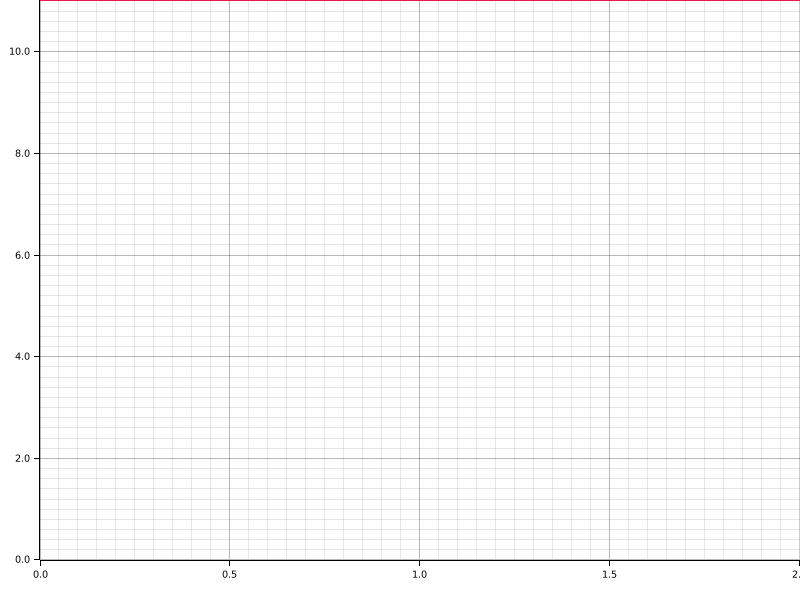
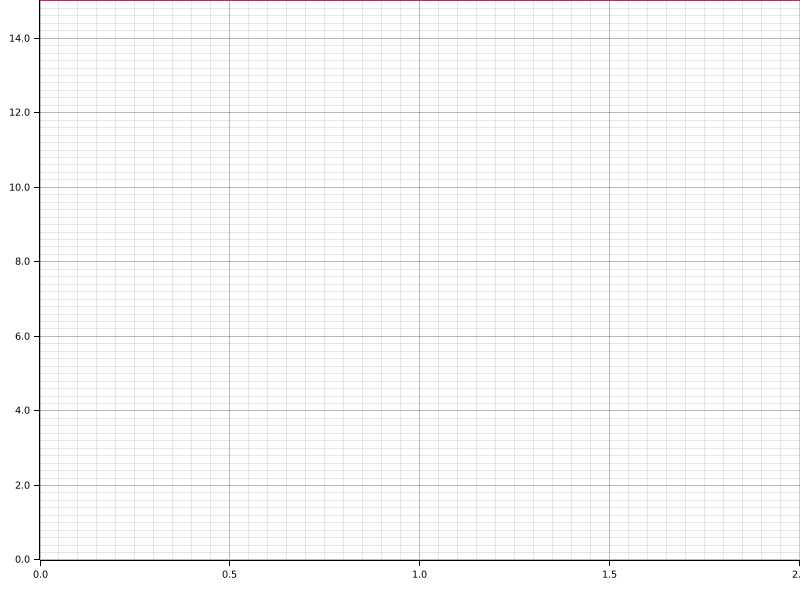
Reran directus codegen

Changed region(s): [[0.0, 0.0, 1.0, 0.93]]

diff --git a/data-migrations/directus-migration/directus-migration-builder/time_requirements_report.md b/data-migrations/directus-migration/directus-migration-builder/time_requirements_report.md
@@ -1,10 +1,10 @@
 # Time Report for Building Directus Structures
 
-The total time spent on all tasks was 11 seconds.
-The slowest task was `Generating Code` which took 11 seconds (100.00% of all time).
+The total time spent on all tasks was 15 seconds.
+The slowest task was `Generating Code` which took 15 seconds (100.00% of all time).
 
 | name            | time       | percentage | comment    |
 |-----------------|------------|------------|------------|
-| Generating Code | 11 seconds | 100.00%    | Unchanged. |
+| Generating Code | 15 seconds | 100.00%    | Unchanged. |
 
 ![Plot](time_requirements_report.png)
